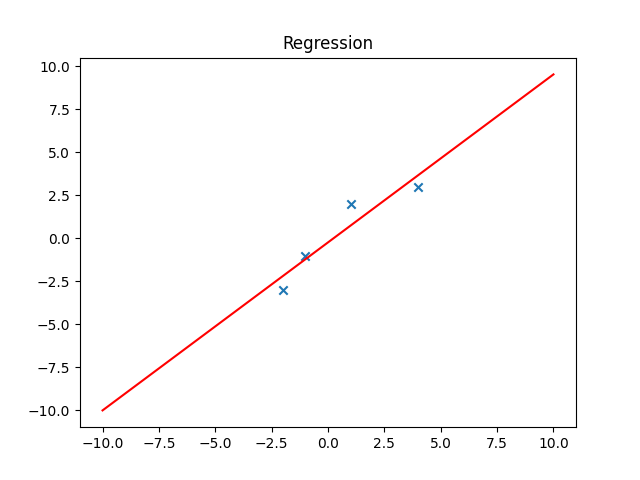
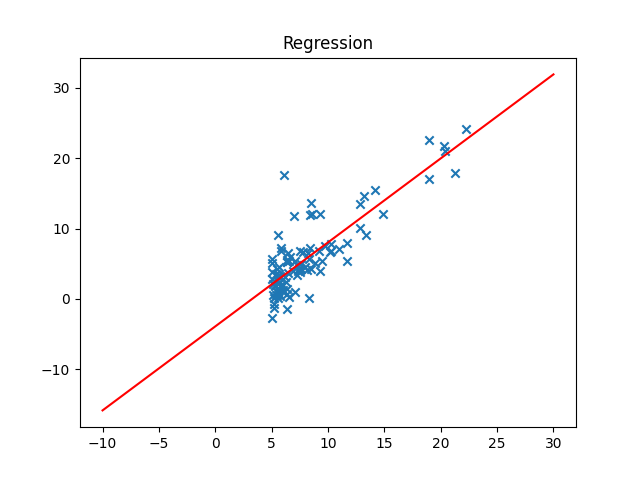
update data

diff --git a/main.py b/main.py
@@ -1,5 +1,5 @@
 # -*- coding: utf-8 -*
-
+import csv
 import matplotlib.pyplot as plt
 import numpy as np
 
@@ -9,13 +9,7 @@ def line_calcul (m,b,x):
 def average (a,b):
     return (a+b)/2
 
-data = [
-        [-2,-3],
-        [-1,-1],
-        [1,2],
-        [4,3],
 
-        ]
 
 #initialisation
 x_y = 0
@@ -28,19 +22,27 @@ list_y = []
 list_y_new =[]
 SCE_D = 0
 SCE_Y = 0
+compt = 0
 ##################
-for row in data:
-    x_y += row[0]*row[1]
-    x+=row[0]
-    y+=row[1]
-    x_2+=pow(row[0],2)
-    list_x.append(row[0])
-    list_y.append(row[1])
 
-sum_x_y = float(x_y)/len(data)
-sum_x = float(x)/len(data)
-sum_y = float(y)/len(data)
-sum_x_2 = float(x_2)/len(data)
+with open('data.txt', 'r') as f:
+    reader = csv.reader(f, dialect='excel', delimiter=',')
+    for row in reader:
+        x_y += float(row[0])*float(row[1])
+        x+=float(row[0])
+        y+=float(row[1])
+        x_2+=pow(float(row[0]),2)
+        list_x.append(float(row[0]))
+        list_y.append(float(row[1]))
+        compt += 1
+
+
+    
+
+sum_x_y = float(x_y)/compt
+sum_x = float(x)/compt
+sum_y = float(y)/compt
+sum_x_2 = float(x_2)/compt
 
 #clacul de a et b y = mx + b
 
@@ -48,11 +50,13 @@ m = ((sum_x_y)-(sum_x*sum_y))/(sum_x_2-pow(sum_x,2))
 b = sum_y - (m*sum_x)
 print ("y = %.2f*x + %.2f"%(m,b))
 
-for row in data:
-    y_calcule = line_calcul(m,b,row[0])
-    list_y_new.append(y_calcule)
-    SCE_D += pow(row[1]-y_calcule,2)
-    SCE_Y += pow((row[1]-sum_y),2)
+with open('data.txt', 'r') as f:
+    reader = csv.reader(f, dialect='excel', delimiter=',')
+    for row in reader:
+        y_calcule = line_calcul(m,b,float(row[0]))
+        list_y_new.append(y_calcule)
+        SCE_D += pow(float(row[1])-y_calcule,2)
+        SCE_Y += pow((float(row[1])-sum_y),2)
 
 print(SCE_D)
 print(SCE_Y)
@@ -63,7 +67,7 @@ print(R_2)
 
 
 #figure
-x = np.linspace(-10, 10, 100)
+x = np.linspace(-10, 30, 100)
 plt.plot(x, m*x+b,color="red", label='linear')
 
 
